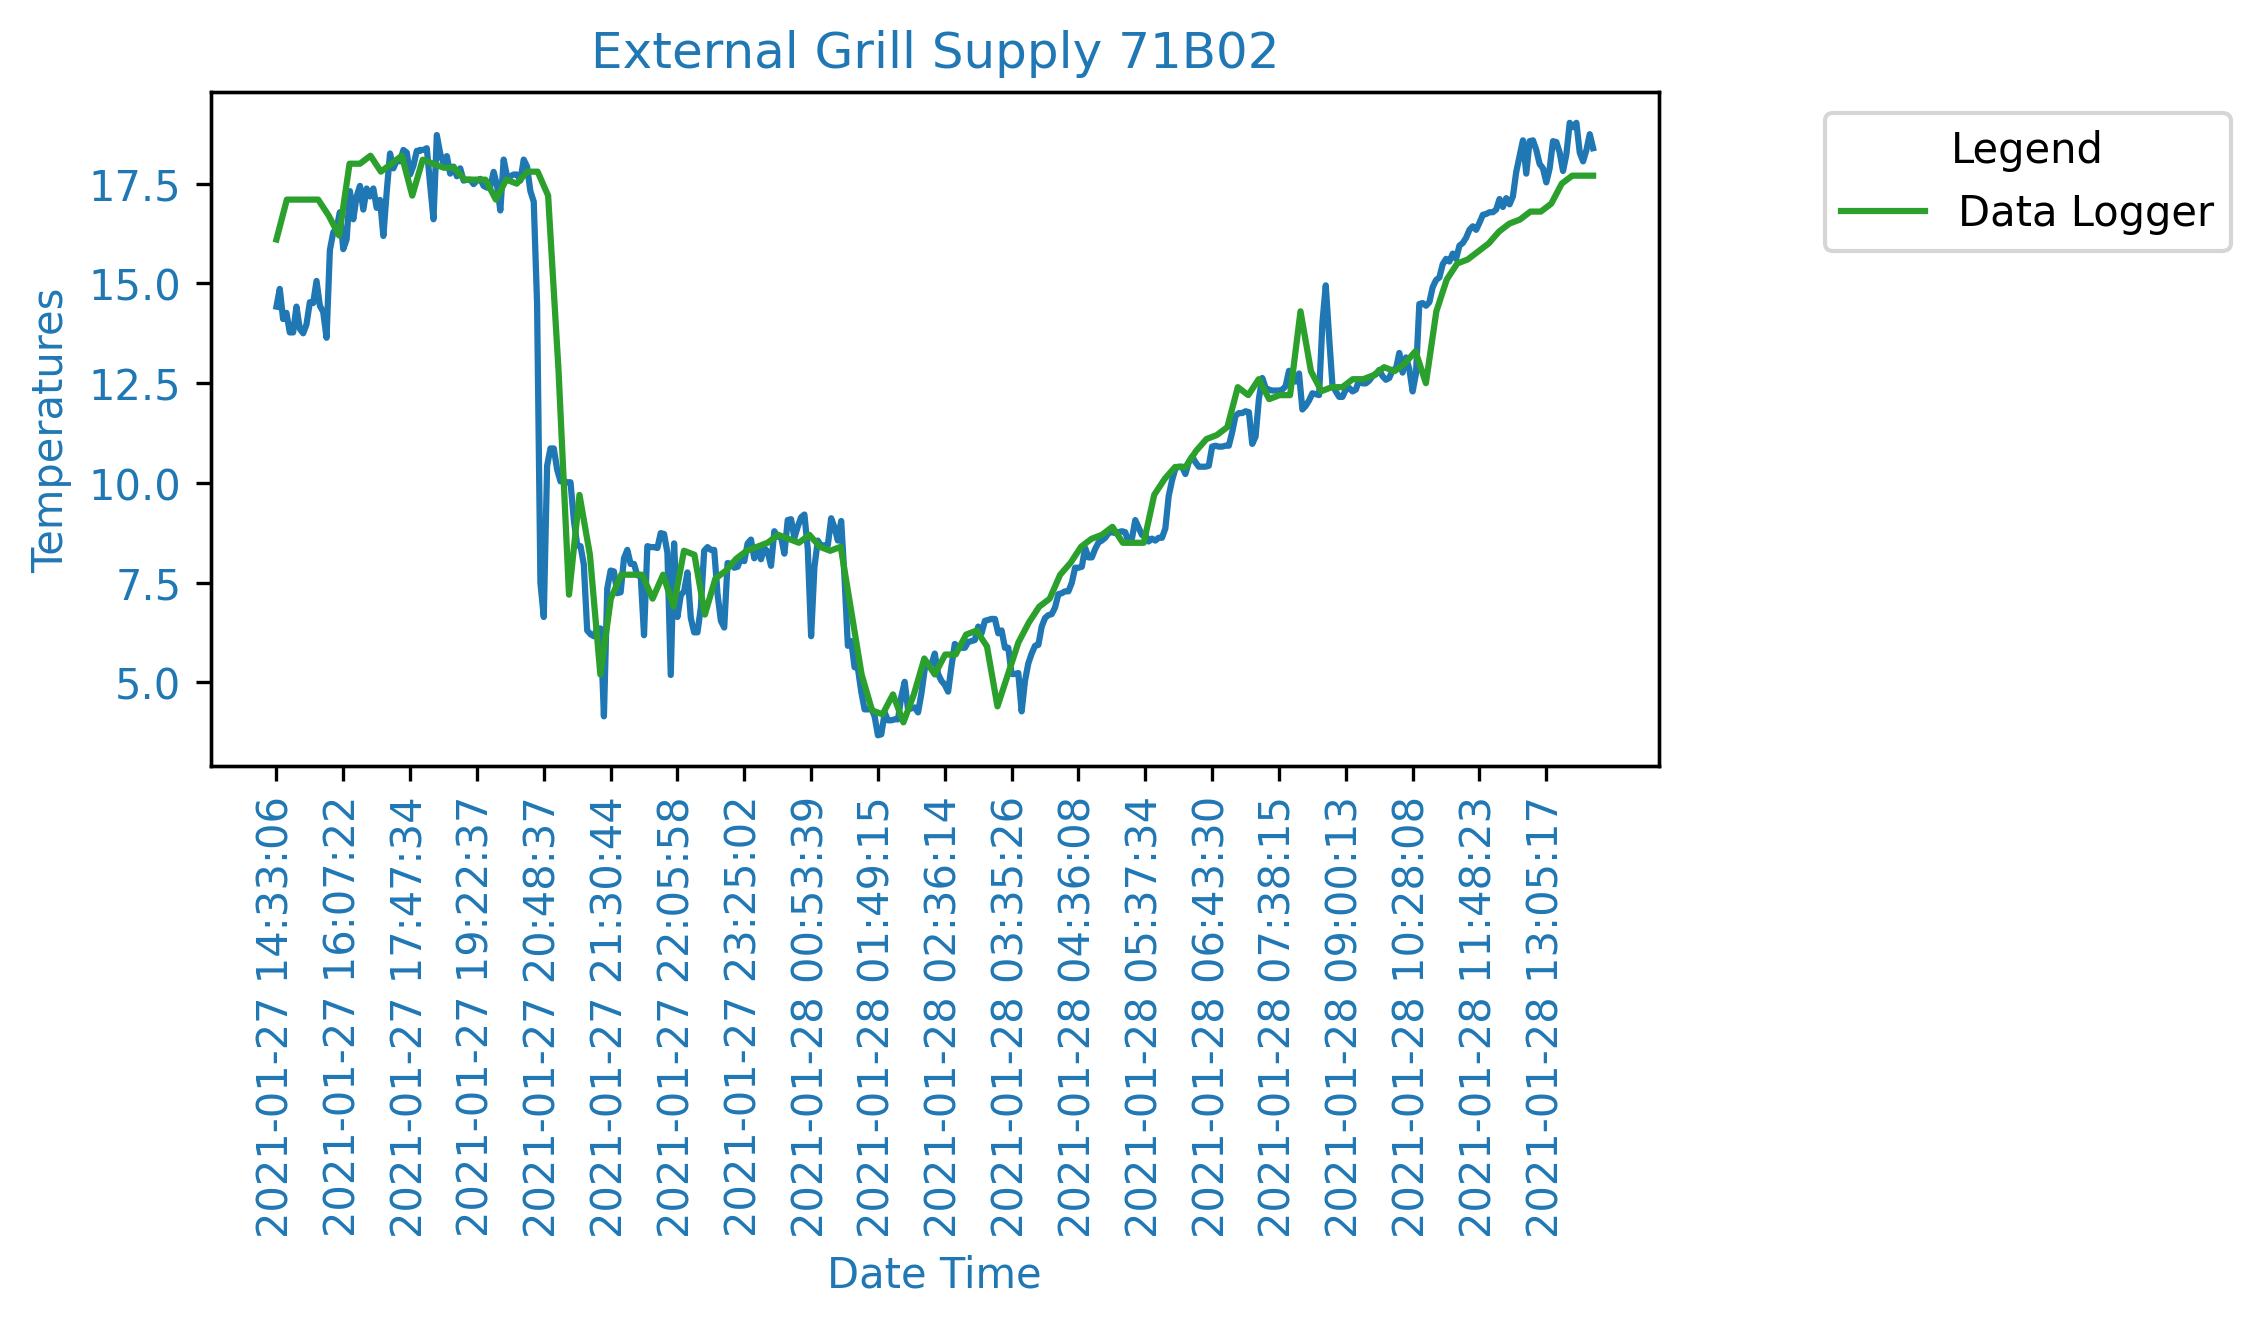
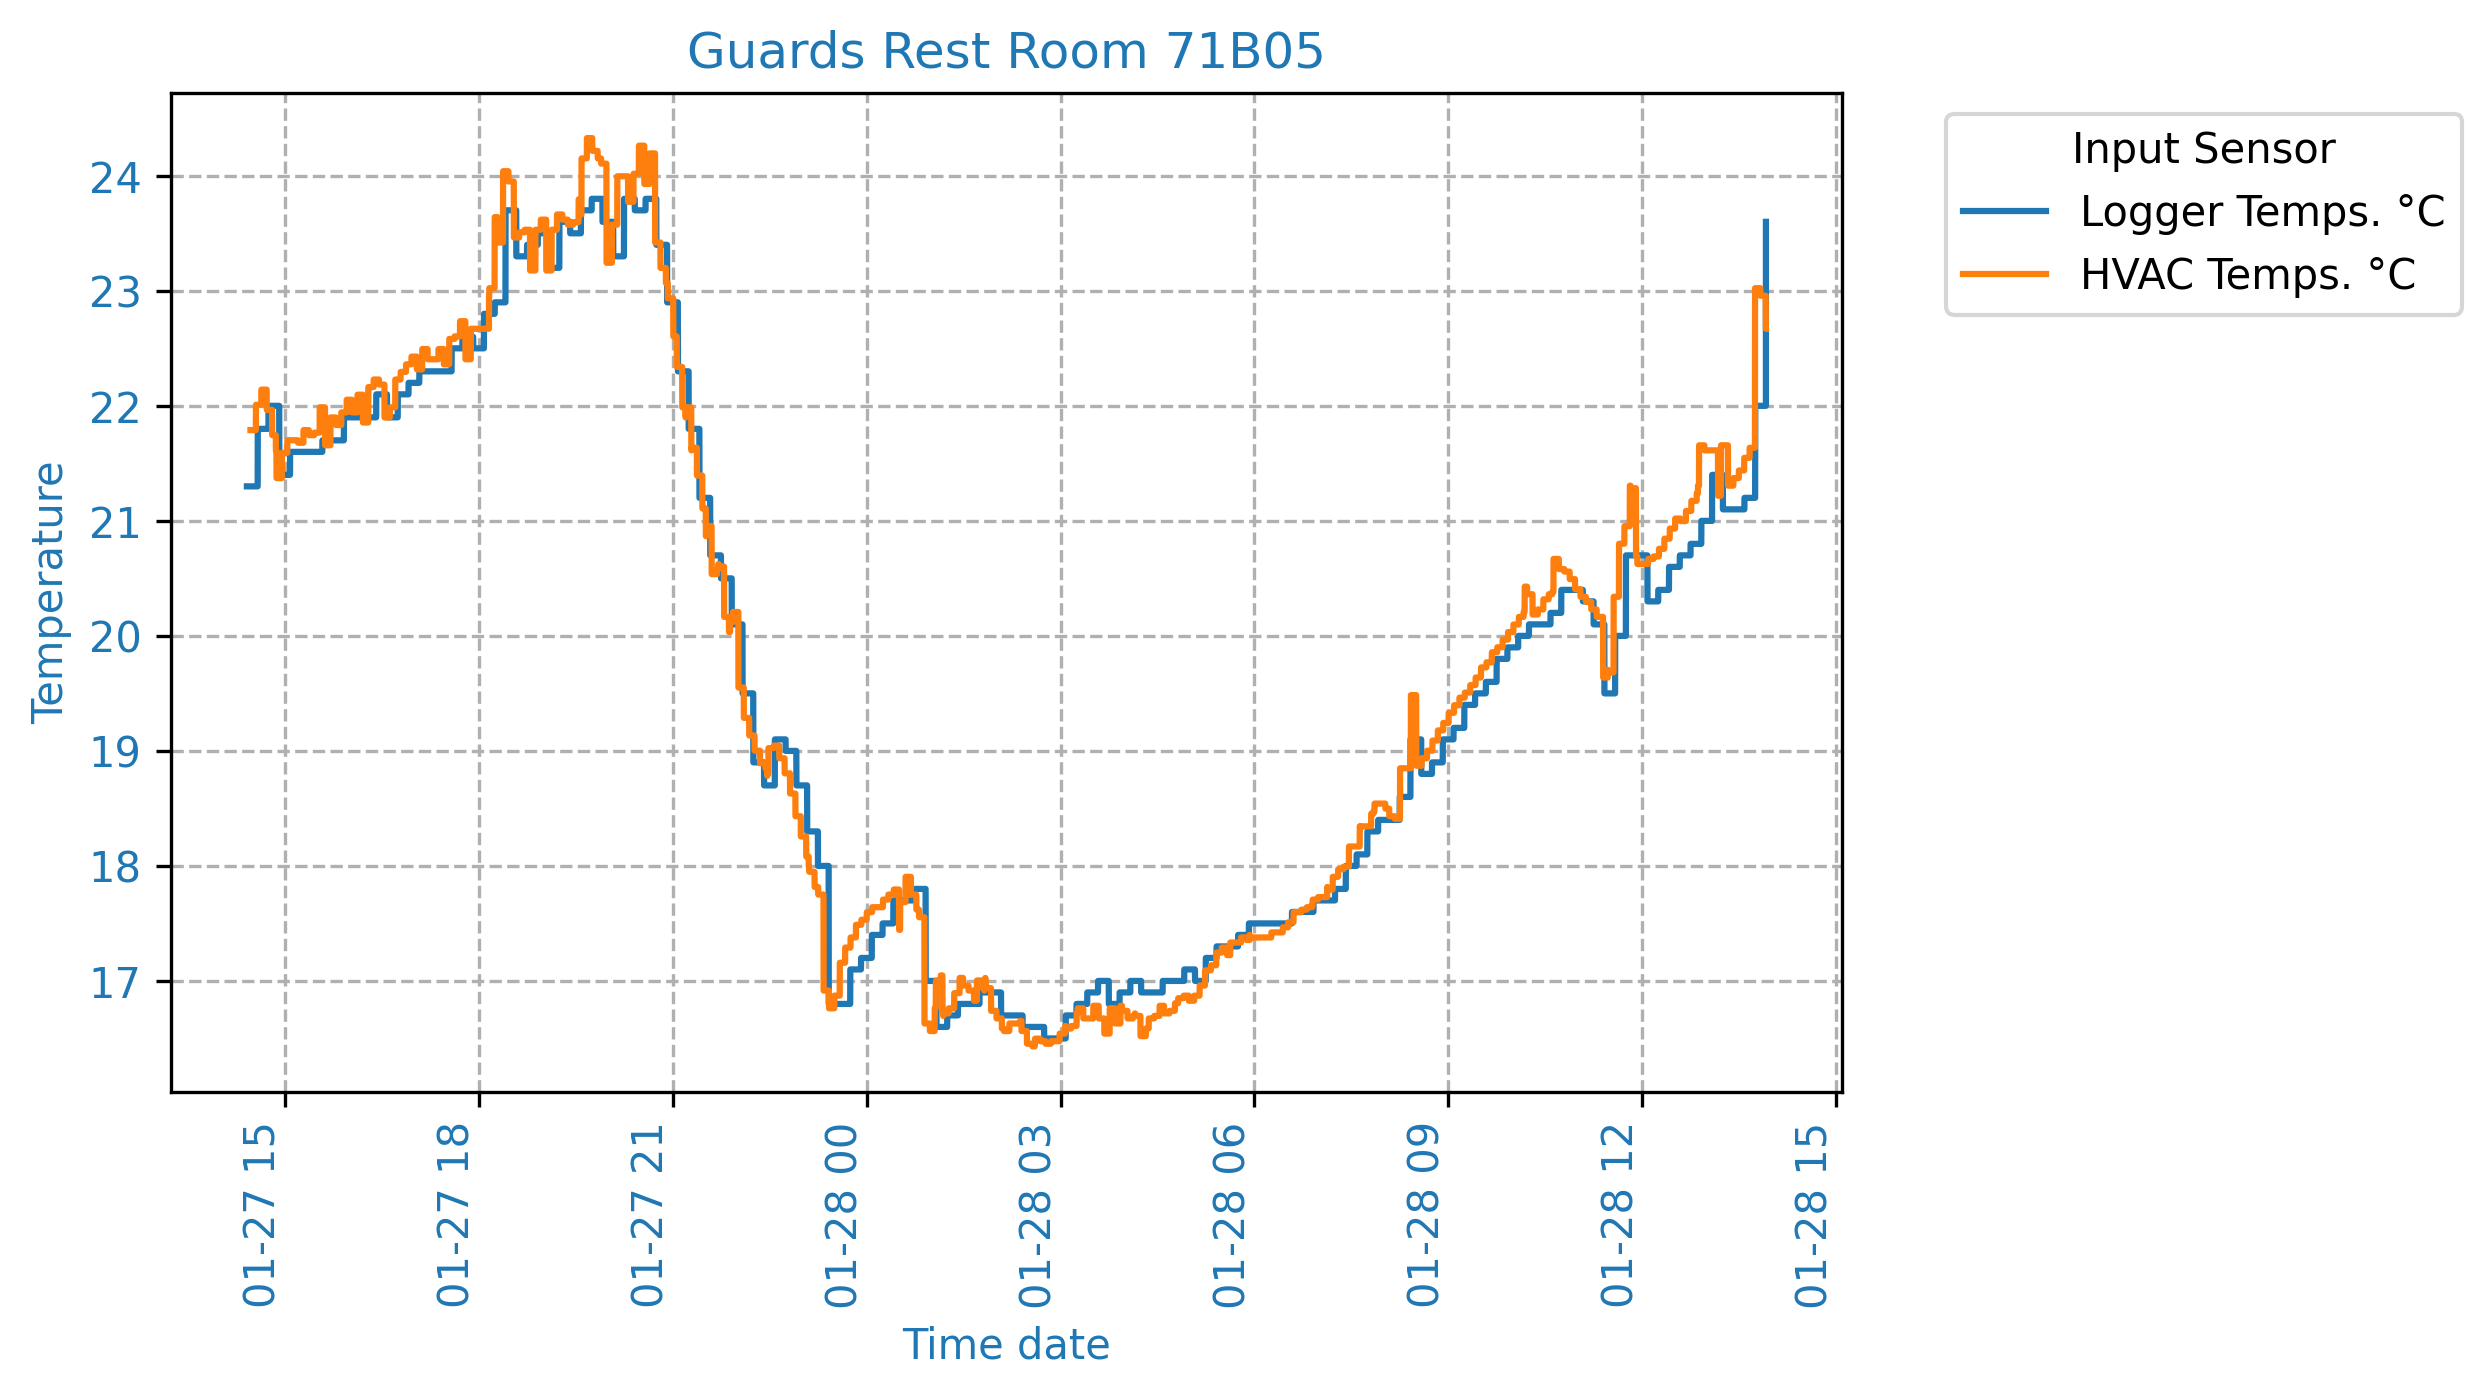
Changed the data time to 1 second increments to plot the data more consistently. Tested OK.

diff --git a/Logulator.py b/Logulator.py
@@ -57,22 +57,6 @@ class Logulator:
             counter += 1
         tempLogs.to_csv('loggerData.csv')
 
-    def readDataLoggerCSV(self):
-        if 'loggerData.csv' not in os.listdir(self.path):
-            self.createDataLoggerCSV()
-        return pd.read_csv('loggerData.csv')
-
-    def makeDataLoggerDataFrame(self):
-        df = self.readDataLoggerCSV()
-        dataLogger = pd.DataFrame()
-        dataLogger['Time date'] = df['Time']
-        dataLogger['Temperature °C'] = df['Celsius(°C)']
-        dataLogger.to_csv("dataLogger.csv", index=False)
-        dataLogger = pd.read_csv("dataLogger.csv")
-        dataLogger = self.dateSortAndReIndex(dataLogger)
-        dataLogger = dataLogger.set_index('Time date')
-        return dataLogger
-
     def writeAllDataCSV(self):
         self.all_data.to_csv("all_data.csv", index=False)
         shutil.rmtree(self.tempDir)
@@ -87,9 +71,16 @@ class Logulator:
             self.all_data = self.all_data.append(data)
 
     def getTempData(self):
+        """
+        Returns a DataFrame using the temperature sensor data from the HVAC unit.
+        If there is no temperatureData.csv file available, it will make one with the
+        HVAC csv logs.
+        :return: temperatureData of type DataFrame
+        """
+        temperatureData = pd.DataFrame()
+
         if 'temperatureData.csv' not in os.listdir(self.path):
             df = self.getAllData()
-            temperatureData = pd.DataFrame()
             temperatureData['Time date'] = df['Time date']
             temperatureData['External Grill Supply'] = df['TEMPERATURE_SUPPLY_1']
             temperatureData['SAT1'] = df['TEMPERATURE_SUPPLY_2']
@@ -100,12 +91,44 @@ class Logulator:
             temperatureData['Guards Rest Room'] = df['TEMP. GUARD_GALLEY_WC']
             temperatureData['Guards Control Room'] = df['TEMP. BERTH_1']
             temperatureData.to_csv("temperatureData.csv", index=False)
-        else:
-            temperatureData = pd.read_csv("temperatureData.csv")
 
-        temperatureData = self.dateSortAndReIndex(temperatureData)
-        temperatureData = temperatureData.set_index('Time date')
+        temperatureData = pd.read_csv("temperatureData.csv")
+        temperatureData = self.sortByDateAndReIndex(temperatureData)
         return temperatureData
+
+    def getLoggerData(self):
+        """
+        Returns a DataFrame using the Data Logger data.
+        If there is no loggerData.csv file available, it will make one with the csv logs.
+        :return: loggerDF of type DataFrame
+        """
+        loggerDF = pd.DataFrame()
+        if 'loggerData.csv' not in os.listdir(self.path):
+            tempLogs = pd.DataFrame()
+            path = os.getcwd()
+            files = os.listdir(path)
+            tempDir = './.tempDL/'
+            os.makedirs(tempDir, exist_ok=True)
+            files_xlsx = [f for f in files if f[-4:] == 'xlsx']
+            counter = 0
+            for file in files_xlsx:
+                shutil.copy(file, tempDir + str(counter) + '_New_File.xlsx')
+                data = pd.read_excel(tempDir + str(counter) + '_New_File.xlsx', engine='openpyxl')
+                tempLogs = tempLogs.append(data)
+                counter += 1
+            loggerDF['Time date'] = tempLogs['Time']
+            loggerDF['Logger Temp. °C'] = tempLogs['Celsius(°C)']
+            loggerDF['Time date'] = pd.to_datetime(loggerDF['Time date'])
+            loggerDF = self.sortByDateAndReIndex(loggerDF)
+            loggerDF = loggerDF.dropna(how='any')  # Remove NaN data
+            loggerDF = loggerDF.drop(loggerDF.columns[[0]], axis=1)  # Remove superfluous column
+            loggerDF.to_csv('loggerData.csv')
+            shutil.rmtree(tempDir)
+
+        loggerDF = pd.read_csv('./loggerData.csv')
+        loggerDF = loggerDF.set_index('Time date')
+        loggerDF = loggerDF.dropna(how='any')
+        return loggerDF
 
     def getDamperData(self):
         if './damperData.csv' not in os.listdir(self.path):
@@ -118,21 +141,40 @@ class Logulator:
         else:
             damperData = pd.read_csv("damperData.csv")
 
-        damperData = self.dateSortAndReIndex(damperData)
+        damperData = self.sortByDateAndReIndex(damperData)
         damperData = damperData.set_index('Time date')
         return damperData
 
-    def dateSortAndReIndex(self, df):
+    def sortByDateAndReIndex(self, df):
         df['Time date'] = pd.to_datetime(df['Time date'])
         df = df.sort_values(by='Time date')
         df = df.reset_index(drop=True)  # Reset the index to line up with the sorted data.
         return df
 
+    def makeTempComparisonDF(self):
+        """
+        Makes an empty DataFrame with a index using date time incrementing by seconds.
+        The date range of the index is set by the info from the data logger as this data
+        is more finite than the data from the HVAC unit.
+        :return: tempComparison of type DataFrame
+        """
+        df = self.getTempData()  # Makes a DF using the HVAC sensor data
+        loggerData = self.getLoggerData()  # Makes a DF using the Data Logger data
+        start_date = loggerData.index[0]
+        end_date = loggerData.index[-1]
+        index = pd.date_range(start_date, end=end_date, freq='S')
+        columns = ['Empty']
+        tempComparison = pd.DataFrame(index=index, columns=columns)
+        temperatureData = df[(df['Time date'] >= loggerData.index[0]) & (df['Time date'] <= loggerData.index[-1])].copy().set_index('Time date')
+        tempComparison = loggerData.combine_first(tempComparison)
+        tempComparison = temperatureData.combine_first(tempComparison)
+        del tempComparison['Empty']
+        return tempComparison
+
 
 class TempLogger(Logulator):
     def plotTemperatures(self):
         temperatureData = Logulator.getTempData(self)
-
         dfTemp = temperatureData.copy()
         dfTemp.plot(kind='line', legend=None)
         plt.xticks(color='C0', rotation='vertical')
@@ -173,7 +215,7 @@ class DampLogger(Logulator):
 
 class DataLoggerTemperatures(Logulator):
     def plotDataLoggerTemps(self):
-        dfTemp = Logulator.makeDataLoggerDataFrame(self).copy()
+        dfTemp = Logulator.getLoggerData(self).copy()
         dfTemp.plot(kind='line', legend=None)
         plt.xticks(color='C0', rotation='vertical')
         plt.xlabel('Time date', color='C0', size=10)
@@ -190,53 +232,34 @@ class DataLoggerTemperatures(Logulator):
         plt.show()
 
     def plotDataLoggerOverHVAC(self, sensor):
+        sensor = int(sensor)
         sensors = {1: 'Dining Floor Return', 2: 'External Grill Supply', 3: 'Vestibule E1',
                    4: 'Vestibule E2', 5: 'Guards Rest Room', 6: 'Guards Control Room'}
         sensorsCAF = {1: '71B01', 2: '71B02', 3: '71B03', 4: '71B04', 5: '71B05', 6: '71B06'}
-        sensorToTest = sensors[int(sensor)]
+        sensorToTest = sensors[sensor]
+        title = sensorToTest + ' ' + sensorsCAF[sensor]
 
-        loggerData = Logulator.readDataLoggerCSV(self)
-        loggerData = loggerData.set_index('Time date')
-        loggerData = loggerData.dropna(how='any')
+        dfTemps = pd.DataFrame()
+        tempComparison = Logulator.makeTempComparisonDF(self)
 
-        df = pd.read_csv("temperatureData.csv")
-        # temperatureData = df.set_index('Time date')
-        temperatureData = df[
-            (df['Time date'] >= loggerData.index[0]) & (df['Time date'] <= loggerData.index[-1])].copy().set_index(
-            'Time date')
-        loggerData = loggerData.iloc[10:-5]  # Drop rows
-        dl = loggerData['Temperature °C']
-        y1 = temperatureData[sensorToTest]
-        x = temperatureData.index
-        fig, ax1 = plt.subplots()
-        ax2 = ax1.twiny()  # instantiate a second axes that shares the same x-axis
-        ax1.set_xlabel('Date Time', color='C0')
-        ax1.set_ylabel('Temperatures', color='C0')
-        ax1.tick_params(axis='x', labelcolor='C0', labelrotation=90)
-        ax1.tick_params(axis='y', labelcolor='C0')
-        ax2.tick_params(axis='x', labelcolor='C0')
-        ax2.tick_params(axis='y', labelcolor='C0')
-
-        curveDL = ax2.plot(dl, label='Data Logger', color='tab:green')
-        label = sensors[int(sensor)] + ' ' + sensorsCAF[int(sensor)]
-        curve1 = ax1.plot(x, y1, label=label, color='tab:blue')
-
+        # ffill will fill in the NaN gaps with previous data
+        dfTemps['Logger Temps. °C'] = tempComparison['Logger Temp. °C'].ffill()
+        dfTemps['HVAC Temps. °C'] = tempComparison[sensorToTest].ffill()
+        dfTemps.plot(kind='line', legend=None)
+        plt.xticks(color='C0', rotation='vertical')
+        plt.xlabel('Time date', color='C0', size=10)
+        plt.yticks(color='C0')
         plt.tight_layout(pad=2)
-
-        plt.title(label, color='C0')
-        lgd = plt.legend(title='Legend', bbox_to_anchor=(1.1, 1), loc='upper left')
+        plt.title(title, color='C0')
+        plt.ylabel('Temperature', color='C0', size=10)
         plt.grid('on', linestyle='--')
-
-        ax2.set_xticks([])  # Hide the xticks on the top axis.
-        ax1.set_xticks(range(0, len(x), 20))
-
-        plt.grid('on', linestyle='--')
+        lgd = plt.legend(title='Input Sensor', bbox_to_anchor=(1.05, 1))
 
         plt.savefig('myfig100.png', dpi=300, facecolor='w', edgecolor='w',
                     orientation='landscape', format=None, bbox_extra_artists=(lgd,), bbox_inches='tight',
                     transparent=False, pad_inches=0.1)
-
         plt.show()
+
 
 
 def main():
